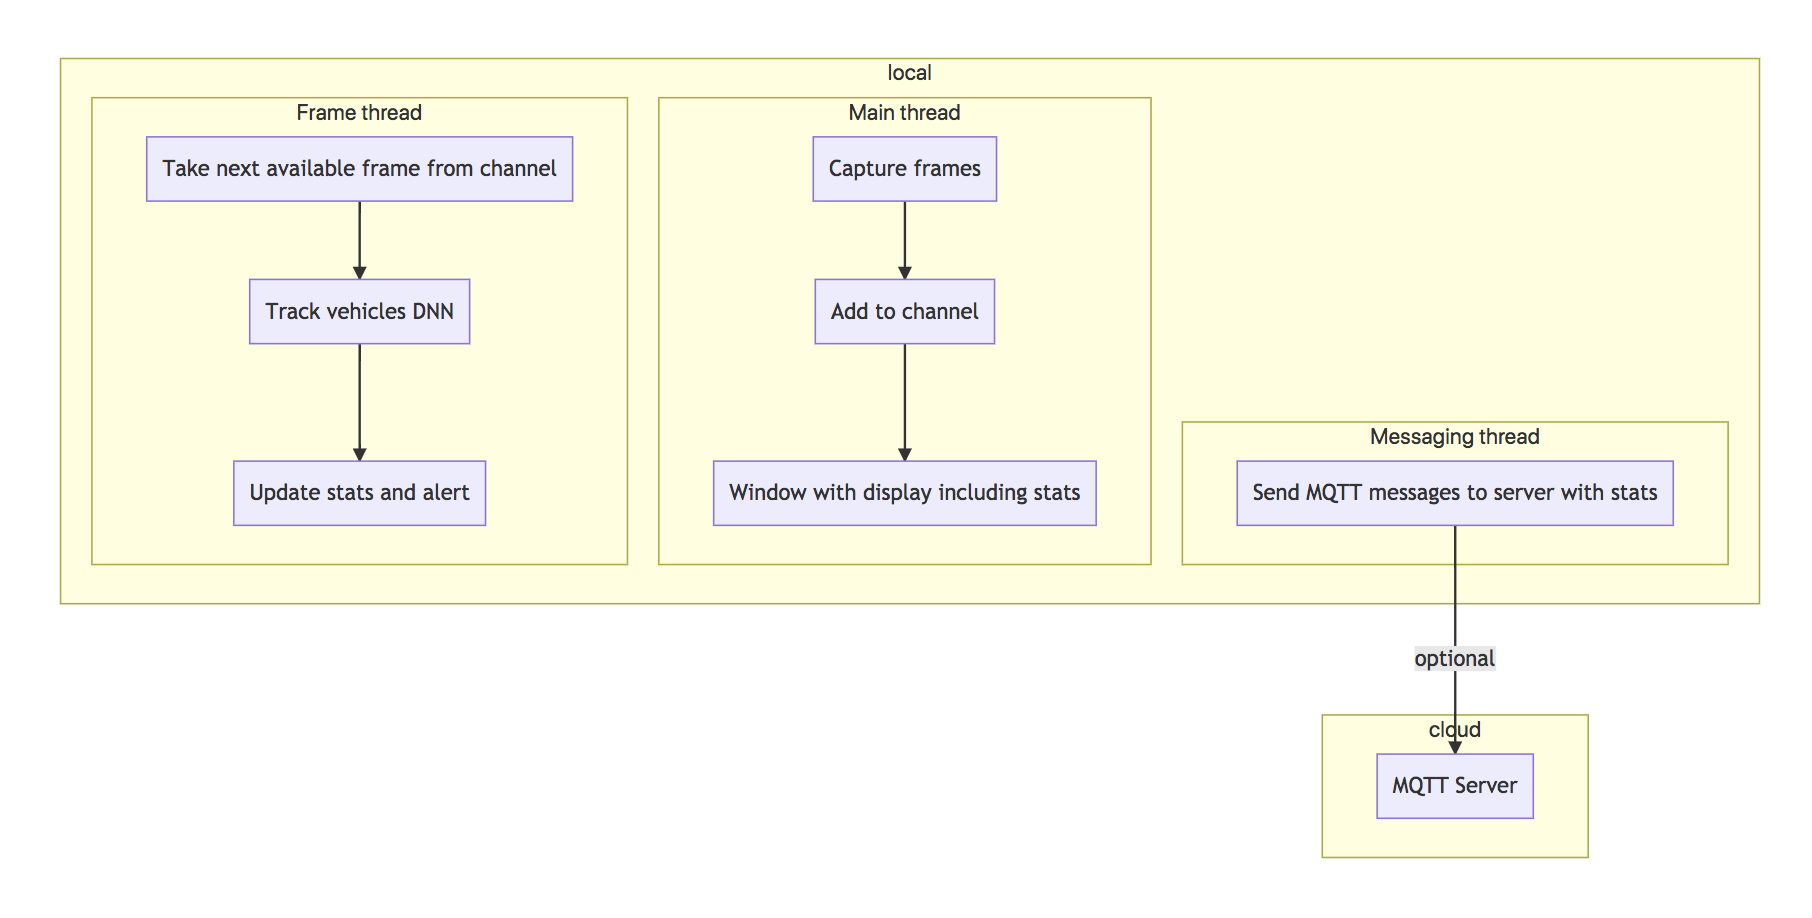
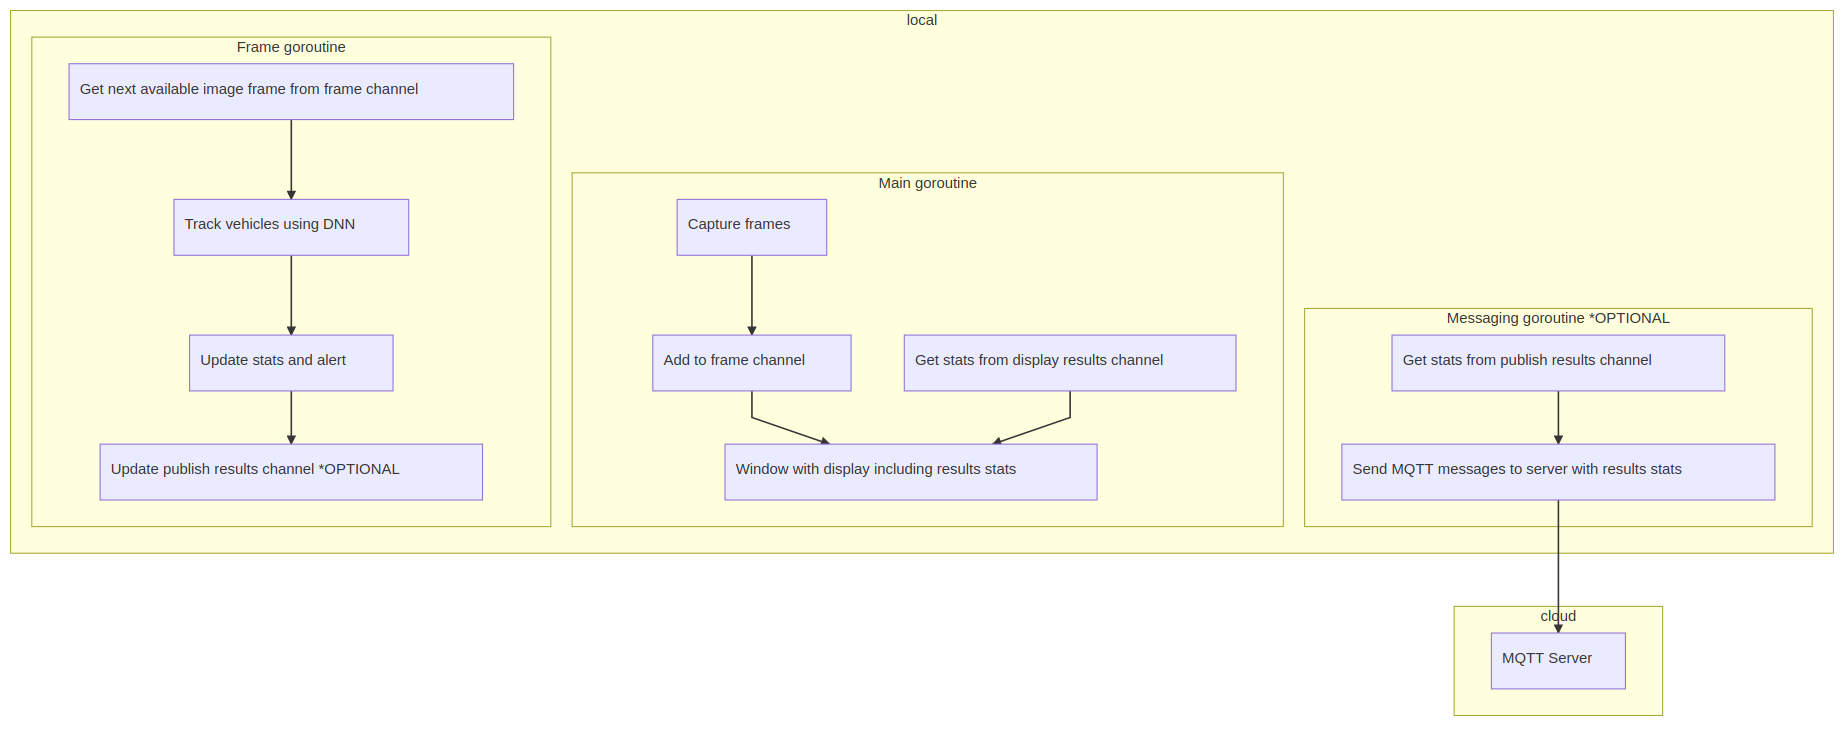
docs: update to latest installation info and format

diff --git a/README.md b/README.md
@@ -10,31 +10,74 @@
 
 ## Introduction
 
-The parking lot counter is one of a series of reference implementations for Computer Vision (CV) using the Intel® Distribution of OpenVINO™ toolkit. This application is designed for a parking space area mounted camera which monitors available parking space by tracking the counts of the vehicles entering and leaving the parking space area.
-
-This example is intended to demonstrate how to use CV to monitor parking spaces in dedicated parking area.
+This parking lot counter application is one of a series of reference implementations for Computer Vision (CV) using the Intel® Distribution of OpenVINO™ toolkit written in the Go programming language. This application is designed for a parking space area mounted camera which counts available parking space by tracking the number of vehicles entering and leaving the parking space area.
 
 ## Requirements
 
 ### Hardware
+
 * 6th Generation Intel® Core™ processor with Intel® Iris® Pro graphics and Intel® HD Graphics
 
 ### Software
+
 * [Ubuntu\* 16.04 LTS](http://releases.ubuntu.com/16.04/)
 *Note*: You must be running kernel version 4.7+ to use this software. We recommend using a 4.14+ kernel to use this software. Run the following command to determine your kernel version:
-```
+
+```shell
 uname -a
 ```
+
 * OpenCL™ Runtime Package
 * Intel® Distribution of OpenVINO™ toolkit
+* Go programming language v1.11+
 
 ## Setup
 
-### Install the Intel® Distribution of OpenVINO™ toolkit
+### Install OpenVINO™ Toolkit
+
 Refer to https://software.intel.com/en-us/articles/OpenVINO-Install-Linux for more information about how to install and setup the Intel® Distribution of OpenVINO™ toolkit.
 
 You will need the OpenCL™ Runtime package if you plan to run inference on the GPU as shown by the
 instructions below. It is not mandatory for CPU inference.
+
+### Install Go
+
+You must install the Go programming language version 1.11+ in order to compile this application. You can obtain the latest compiler from the Go website's download page at https://golang.org/dl/
+
+For an excellent introduction to the Go programming language, check out the online tour at https://tour.golang.org
+
+### Download the reference platform code using "go get"
+
+You can download the reference platform code onto your computer by using the following Go command:
+
+```shell
+go get -d github.com/intel-iot-devkit/parking-lot-counter-go
+```
+
+Then, change the current directory to where you have installed the application code to continue the installation steps:
+
+```shell
+cd $GOPATH/src/github.com/intel-iot-devkit/parking-lot-counter-go
+```
+
+### Install Dep
+
+This sample uses the `dep` dependency tool for Go. You can download and install it by running the following command:
+
+```shell
+make godep
+
+```
+
+### Install GoCV
+
+Once you have installed Go, you must also install the GoCV (https://gocv.io/) package which contains the Go programming language wrappers for OpenVINO, and the associated dependencies. The easiest way to do this is by using the `dep` tool, which will satisfy the program's dependencies as defined in `Gopkg.lock` file. Run the following make file task to do so:
+
+```shell
+make dep
+```
+
+Now you should be ready to build and run the reference platform application code.
 
 ## How it Works
 
@@ -44,7 +87,7 @@ The data can then optionally be sent to a MQTT machine to machine messaging serv
 
 The DNN model used in this application is an Intel® optimized models that is part of the Intel® Distribution of OpenVINO™ toolkit.
 
-You can find them here:
+You can find it here:
 
 - `/opt/intel/computer_vision_sdk/deployment_tools/intel_models/pedestrian-and-vehicle-detector-adas-0001`
 
@@ -59,72 +102,62 @@ The program creates three goroutines for concurrency:
 ## Setting the Build Environment
 
 You must configure the environment to use the Intel® Distribution of OpenVINO™ toolkit one time per session by running the following command:
-```
-    source /opt/intel/computer_vision_sdk/bin/setupvars.sh
+
+```shell
+source /opt/intel/computer_vision_sdk/bin/setupvars.sh
 ```
 
 ## Building the Code
 
 Start by changing the current directory to wherever you have git cloned the application code. For example:
-```
-    cd parking-lot-counter-go
+
+```shell
+cd $GOPATH/src/github.com/intel-iot-devkit/parking-lot-counter-go
 ```
 
 Before you can build the program you need to fetch its dependencies. You can do that by running the commands below. The first one fetches `Go` depedency manager of our choice and the latter uses it to satisfy the program's depdencies as defined in `Gopkg.lock` file:
 
-```
+```shell
 make godep
 make dep
 ```
 
 Once you have fetched the dependencies you must export a few environment variables required to build the library from the fetched dependencies. Run the following command from the project directory:
 
-```
-    source vendor/gocv.io/x/gocv/openvino/env.sh
+```shell
+source vendor/gocv.io/x/gocv/openvino/env.sh
 ```
 
 Now you are ready to build the program binary. The project ships a simple `Makefile` which makes building the program easy by invoking the `build` task from the project root as follows:
-```
-    make build
-```
 
- This commands creates a new directory called `build` in your current working directory and places the newly built binary called `monitor` into it.
-Once the commands are finished, you should have built the `monitor` application executable.
-
-## Running the code
-
-To see a list of the various options:
-```
-    ./monitor -help
+```shell
+make build
 ```
 
-To run the application with the needed models using the webcam:
-```
-    ./monitor -min=10000 -max=30000
-```
-
-The `-min` flag controls the minimum size of the area the part needs to occupy to be considered good
-
-The `-max` flag controls the maximum size of the area the part needs to occupy to be considered good
+This commands creates a new directory called `build` in your current working directory and places the newly built binary called `counter` into it. Once the commands are finished, you should have built the `counter` application executable.
 
 ## Running the Code
 
 To see a list of the various options:
-```
-    ./monitor -help
+
+```shell
+./counter -help
 ```
 
-To run the application with the needed models using the webcam:
-```
-    ./monitor -model=/opt/intel/computer_vision_sdk/deployment_tools/intel_models/pedestrian-and-vehicle-detector-adas-0001/FP32/pedestrian-and-vehicle-detector-adas-0001.bin -model-config=/opt/intel/computer_vision_sdk/deployment_tools/intel_models/pedestrian-and-vehicle-detector-adas-0001/FP32/pedestrian-and-vehicle-detector-adas-0001.xml
+To run the application with the needed model using the webcam:
+
+```shell
+./counter -model=/opt/intel/computer_vision_sdk/deployment_tools/intel_models/pedestrian-and-vehicle-detector-adas-0001/FP32/pedestrian-and-vehicle-detector-adas-0001.bin -model-config=/opt/intel/computer_vision_sdk/deployment_tools/intel_models/pedestrian-and-vehicle-detector-adas-0001/FP32/pedestrian-and-vehicle-detector-adas-0001.xml
 ```
 
 To control the position of the parking entrance/exit use the `-entrance, -e` command line flag, like this:
-```
-    ./monitor -model=/opt/intel/computer_vision_sdk/deployment_tools/intel_models/pedestrian-and-vehicle-detector-adas-0001/FP32/pedestrian-and-vehicle-detector-adas-0001.bin -model-config=/opt/intel/computer_vision_sdk/deployment_tools/intel_models/pedestrian-and-vehicle-detector-adas-0001/FP32/pedestrian-and-vehicle-detector-adas-0001.xml -entrance="b"
+
+```shell
+./counter -model=/opt/intel/computer_vision_sdk/deployment_tools/intel_models/pedestrian-and-vehicle-detector-adas-0001/FP32/pedestrian-and-vehicle-detector-adas-0001.bin -model-config=/opt/intel/computer_vision_sdk/deployment_tools/intel_models/pedestrian-and-vehicle-detector-adas-0001/FP32/pedestrian-and-vehicle-detector-adas-0001.xml -entrance="b"
 ```
 
 The `-entrance` flag controls which part of the video stream frame is to be used for counting the cars entering and exiting the parking lot:
+
 * `"b"`: bottom
 * `"l"`: left
 * `"r"`: right
@@ -134,72 +167,111 @@ To control the car detection DNN confidence level use the `-model-confidence` fl
 
 The calculations made to track movement using centroids have two parameters that can be set via flags. `-max-dist` set the maximum distance in pixels between two related centroids. In other words how big of a distance of movement between frames show be allowed before assuming that the object is a different vehicle. `-max-gone` is the maximum number of frames to track a centroid which doesn't change, possibly due to being a parked vehicle.
 
-### Docker
-
-You can also build a Docker image and then run the program in a Docker container. First you need to build the image. You can use the `Dockerfile` present in the cloned repository and build the Docker image by running the following command:
-
-```
-docker build -t parking-lot-counter-go .
-```
-
-This will produce an image called `parking-lot-counter-go` which contains the built binary. Since this docker image has an [ENTRYPOINT](https://docs.docker.com/engine/reference/builder/#entrypoint) defined you can run the image as an executable using the following command:
-
-```
-docker run -it --rm parking-lot-counter-go -h
-```
-
-### Azure
-
-If you'd like to know how you can take advantage of more advanced build system provided by [Microsoft Azure Cloud](https://azure.microsoft.com/) , please check out the Azure guide [here](./azure.md). Following the steps in the guide you can build Docker container and push it into Azure Container Registry to make it available online.
-
 ### Hardware Acceleration
 
 This application can take advantage of the hardware acceleration in the Intel® Distribution of OpenVINO™ toolkit by using the `-backend` and `-target` parameters.
 
 For example, to use the Intel® Distribution of OpenVINO™ toolkit backend with the GPU in 32-bit mode:
-```
-    ./monitor -model=/opt/intel/computer_vision_sdk/deployment_tools/intel_models/pedestrian-and-vehicle-detector-adas-0001/FP32/pedestrian-and-vehicle-detector-adas-0001.bin -model-config=/opt/intel/computer_vision_sdk/deployment_tools/intel_models/pedestrian-and-vehicle-detector-adas-0001/FP32/pedestrian-and-vehicle-detector-adas-0001.xml -backend=2 -target=1
+
+```shell
+./counter -model=/opt/intel/computer_vision_sdk/deployment_tools/intel_models/pedestrian-and-vehicle-detector-adas-0001/FP32/pedestrian-and-vehicle-detector-adas-0001.bin -model-config=/opt/intel/computer_vision_sdk/deployment_tools/intel_models/pedestrian-and-vehicle-detector-adas-0001/FP32/pedestrian-and-vehicle-detector-adas-0001.xml -backend=2 -target=1
 ```
 
 To run the code using 16-bit floats, you have to both set the `-t` flag to use the GPU in 16-bit mode, as well as use the FP16 version of the Intel® models:
-```
-    ./monitor -model=/opt/intel/computer_vision_sdk/deployment_tools/intel_models/pedestrian-and-vehicle-detector-adas-0001/FP16/pedestrian-and-vehicle-detector-adas-0001.bin -model-config=/opt/intel/computer_vision_sdk/deployment_tools/intel_models/pedestrian-and-vehicle-detector-adas-0001/FP16/pedestrian-and-vehicle-detector-adas-0001.xml -backend=2 -target=2
+
+```shell
+./counter -model=/opt/intel/computer_vision_sdk/deployment_tools/intel_models/pedestrian-and-vehicle-detector-adas-0001/FP16/pedestrian-and-vehicle-detector-adas-0001.bin -model-config=/opt/intel/computer_vision_sdk/deployment_tools/intel_models/pedestrian-and-vehicle-detector-adas-0001/FP16/pedestrian-and-vehicle-detector-adas-0001.xml -backend=2 -target=2
 ```
 
 To run the code using the VPU, you have to set the `-target` flag to `3` and also use the 16-bit FP16 version of the Intel® models:
-```
-    ./monitor -model=/opt/intel/computer_vision_sdk/deployment_tools/intel_models/pedestrian-and-vehicle-detector-adas-0001/FP16/pedestrian-and-vehicle-detector-adas-0001.bin -model-config=/opt/intel/computer_vision_sdk/deployment_tools/intel_models/pedestrian-and-vehicle-detector-adas-0001/FP16/pedestrian-and-vehicle-detector-adas-0001.xml -backend=2 -target=3
+
+```shell
+./counter -model=/opt/intel/computer_vision_sdk/deployment_tools/intel_models/pedestrian-and-vehicle-detector-adas-0001/FP16/pedestrian-and-vehicle-detector-adas-0001.bin -model-config=/opt/intel/computer_vision_sdk/deployment_tools/intel_models/pedestrian-and-vehicle-detector-adas-0001/FP16/pedestrian-and-vehicle-detector-adas-0001.xml -backend=2 -target=3
 ```
 
 ## Sample Videos
 
 There are several videos available to use as sample videos to show the capabilities of this application. You can download them by running these commands from the `parking-lot-counter-cpp` directory:
-```
-    mkdir resources
-    cd resources
-    wget https://github.com/intel-iot-devkit/sample-videos/raw/master/car-detection.mp4
-    cd ..
+
+```shell
+mkdir resources
+cd resources
+wget https://github.com/intel-iot-devkit/sample-videos/raw/master/car-detection.mp4
+cd ..
 ```
 
 To then execute the code using one of these sample videos, run the following commands from the `parking-lot-counter-cpp` directory:
-```
-    cd build
-    ./monitor -model=/opt/intel/computer_vision_sdk/deployment_tools/intel_models/pedestrian-and-vehicle-detector-adas-0001/FP32/pedestrian-and-vehicle-detector-adas-0001.bin -model-config=/opt/intel/computer_vision_sdk/deployment_tools/intel_models/pedestrian-and-vehicle-detector-adas-0001/FP32/pedestrian-and-vehicle-detector-adas-0001.xml -backend=2 -target=1 -input=../resources/car-detection.mp4 -entrance="b" -model-confidence=0.7
+
+```shell
+cd build
+./counter -model=/opt/intel/computer_vision_sdk/deployment_tools/intel_models/pedestrian-and-vehicle-detector-adas-0001/FP32/pedestrian-and-vehicle-detector-adas-0001.bin -model-config=/opt/intel/computer_vision_sdk/deployment_tools/intel_models/pedestrian-and-vehicle-detector-adas-0001/FP32/pedestrian-and-vehicle-detector-adas-0001.xml -backend=2 -target=1 -input=../resources/car-detection.mp4 -entrance="b" -model-confidence=0.7
 ```
 
 The above command will use the bottom edge of the video stream frame as parking lot entrance and will count the cars driving up the frame as the cars entering the parking lot and the cars driving down the frame as the cars leaving the parking lot. The application displays in real time how many cars have entered and exited the parking lot.
 
-### Machine to Machine Messaging with MQTT
+## Machine to Machine Messaging with MQTT
 
-If you wish to use a MQTT server to publish data, you need to run the program with `-publish` flag on and set the following environment variables before running the program:
+If you wish to use a MQTT server to publish data, you should set the following environment variables before running the program:
+
+```shell
+export MQTT_SERVER=tcp://localhost:1883
+export MQTT_CLIENT_ID=parking123
 ```
-    export MQTT_SERVER=localhost:1883
-    export MQTT_CLIENT_ID=cvservice
-```
+
+*Note:* You must always specify the server protocol -- the above example is using `TCP` protocol.
 
 Change the `MQTT_SERVER` to a value that matches the MQTT server you are connecting to.
 
 You should change the `MQTT_CLIENT_ID` to a unique value for each monitoring station, so you can track the data for individual locations. For example:
+
+```shell
+export MQTT_CLIENT_ID=parking123
 ```
-    export MQTT_CLIENT_ID=parkinglot1337
+
+If you want to monitor the MQTT messages sent to your local server, and you have the `mosquitto` client utilities installed, you can run the following command:
+
+```shell
+mosquitto_sub -t 'parking/counter'
 ```
+
+## Docker
+
+You can also build a Docker image and then run the program in a Docker container. First you need to build the image. You can use the `Dockerfile` present in the cloned repository and build the Docker image.
+
+First you must obtain your own unique download URL for the Intel distribution of OpenVINO toolkit. Follow the registration process if you have not yet done so. In the registration email you have received a link to the Intel Registration Center website download page, shown here:
+
+![OpenVINO download page](./images/openvino-download.png)
+
+First, navigate to the download page using the link you have received. On the download page, use the "Choose Product to Download" selection box and select "Intel Distribution of OpenVINO toolkit for Linux". Next, using the "Choose a Version" selection box, select "2018 R5". The "Choose a Download Option" section should appear. Right click on the button "Full Package" and choose "Copy Link Address". Your clipboard should now contain your unique OpenVINO download URL. Save this URL somewhere safe.
+
+Now you can build your unique Docker image by running the following command, substituting the actual URL you obtained in the previous step:
+
+```shell
+docker build -t parking-lot-counter-go --build-arg OPENVINO_DOWNLOAD_URL=[your unique OpenVINO download URL here] .
+```
+
+This will produce a docker image called `parking-lot-counter-go` which contains the built binary. Since the built docker image has an [ENTRYPOINT](https://docs.docker.com/engine/reference/builder/#entrypoint) defined you can run the image as an executable using the following command:
+
+```shell
+docker run -it --rm parking-lot-counter-go -h
+```
+
+To run the docker image on an Ubuntu host machine using an attached camera, run the following commands:
+
+```shell
+xhost +local:docker
+docker run --device=/dev/video0:/dev/video0 -v /tmp/.X11-unix:/tmp/.X11-unix -e DISPLAY=$DISPLAY -it --rm parking-lot-counter-go -model=/opt/intel/computer_vision_sdk/deployment_tools/intel_models/pedestrian-and-vehicle-detector-adas-0001/FP32/pedestrian-and-vehicle-detector-adas-0001.bin -model-config=/opt/intel/computer_vision_sdk/deployment_tools/intel_models/pedestrian-and-vehicle-detector-adas-0001/FP32/pedestrian-and-vehicle-detector-adas-0001.xml
+xhost -local:docker
+```
+
+To run the docker image on an Ubuntu host machine using a file input, run the following commands:
+
+```shell
+xhost +local:docker
+docker run -v ${PWD}/resources:/resources -v /tmp/.X11-unix:/tmp/.X11-unix -e DISPLAY=$DISPLAY -it --rm parking-lot-counter-go -model=/opt/intel/computer_vision_sdk/deployment_tools/intel_models/pedestrian-and-vehicle-detector-adas-0001/FP32/pedestrian-and-vehicle-detector-adas-0001.bin -model-config=/opt/intel/computer_vision_sdk/deployment_tools/intel_models/pedestrian-and-vehicle-detector-adas-0001/FP32/pedestrian-and-vehicle-detector-adas-0001.xml -input=/resources/car-detection.mp4 -entrance="b" -model-confidence=0.7
+xhost -local:docker
+```
+
+## Microsoft Azure
+
+If you'd like to know how you can take advantage of more advanced build system provided by [Microsoft Azure Cloud](https://azure.microsoft.com/), please check out the Azure guide [here](./azure.md). Following the steps in the guide you can build a Docker container and push it into Azure Container Registry to make it available online.
